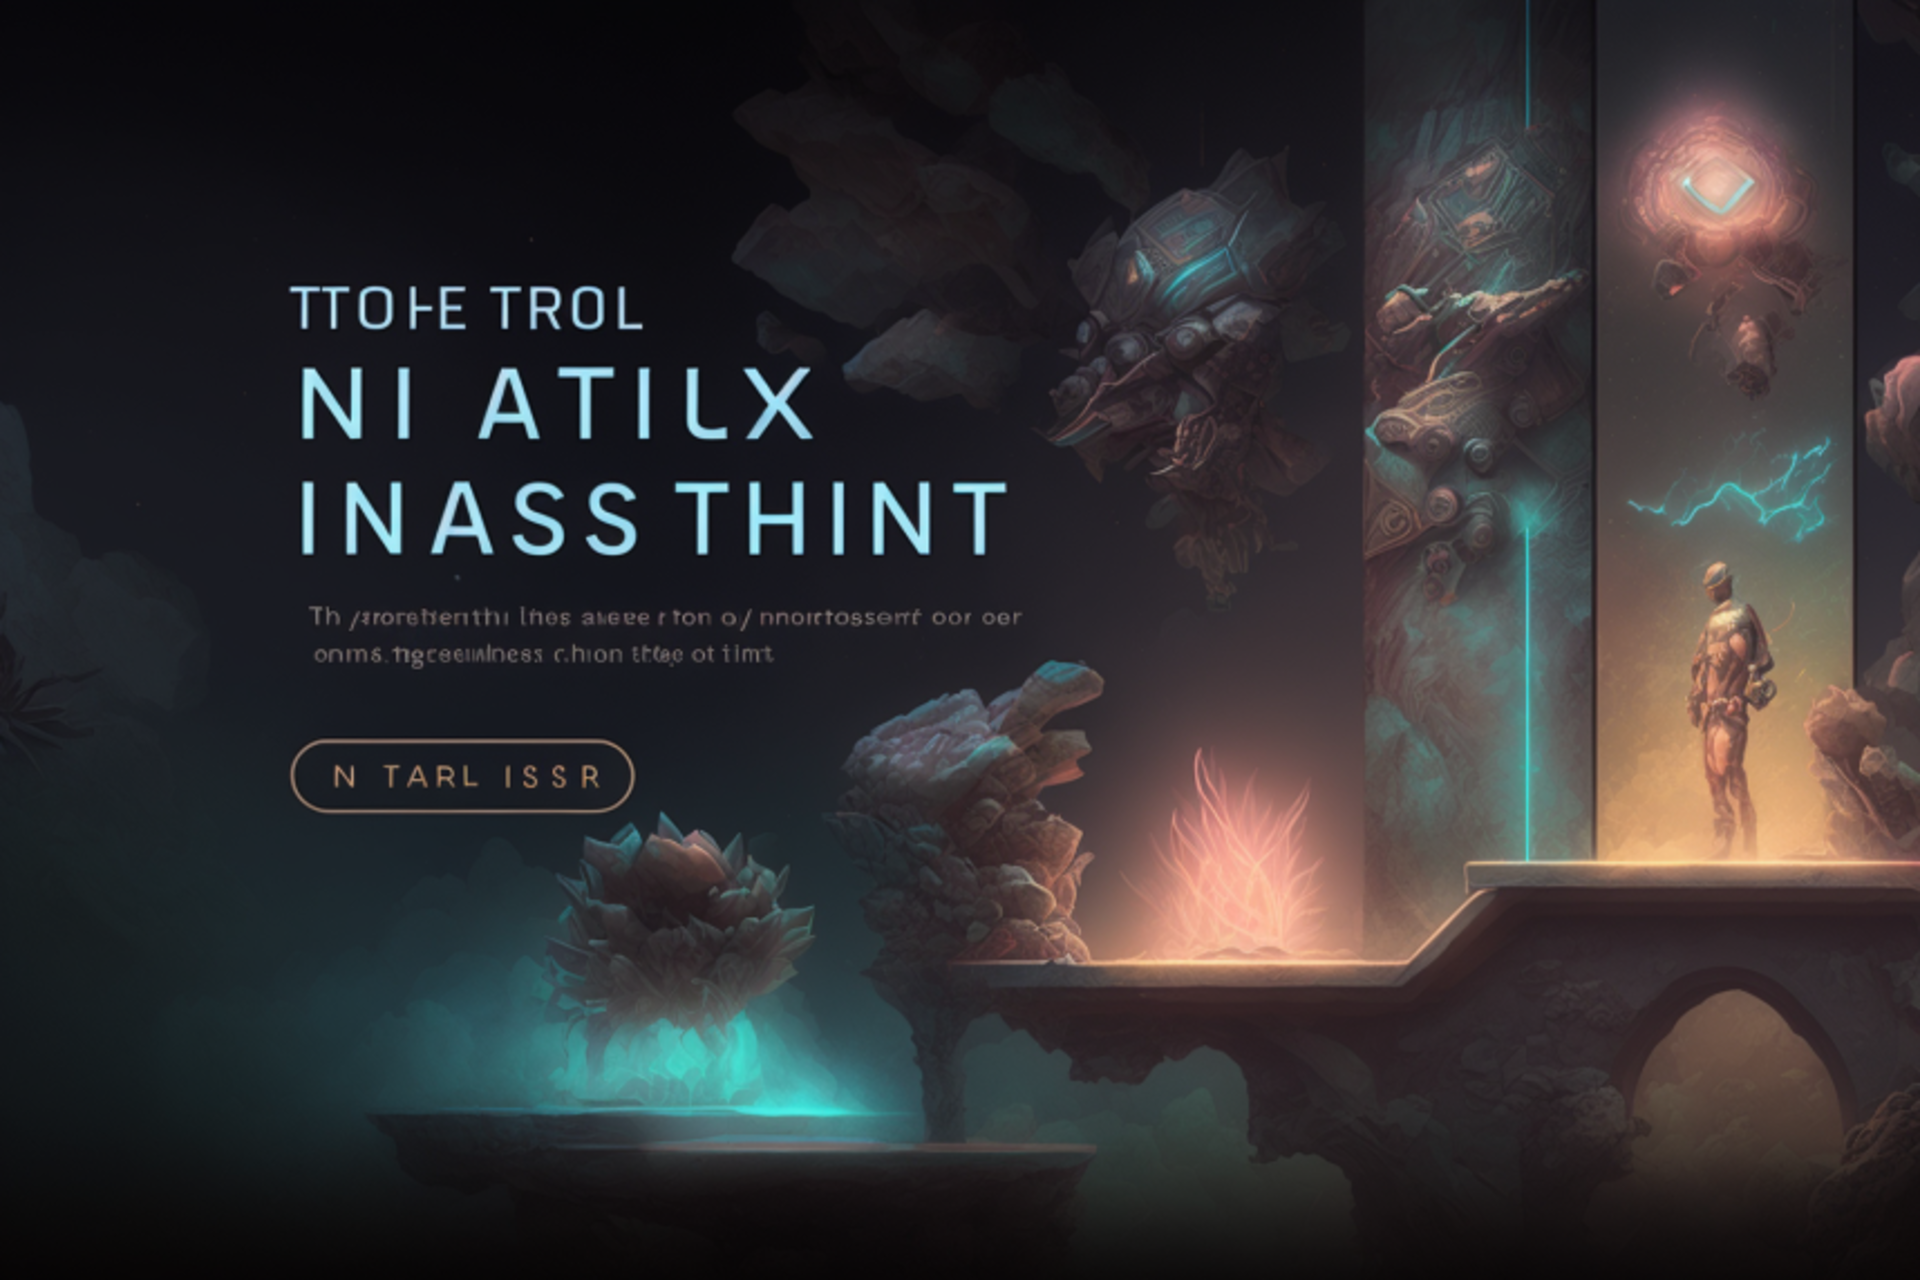
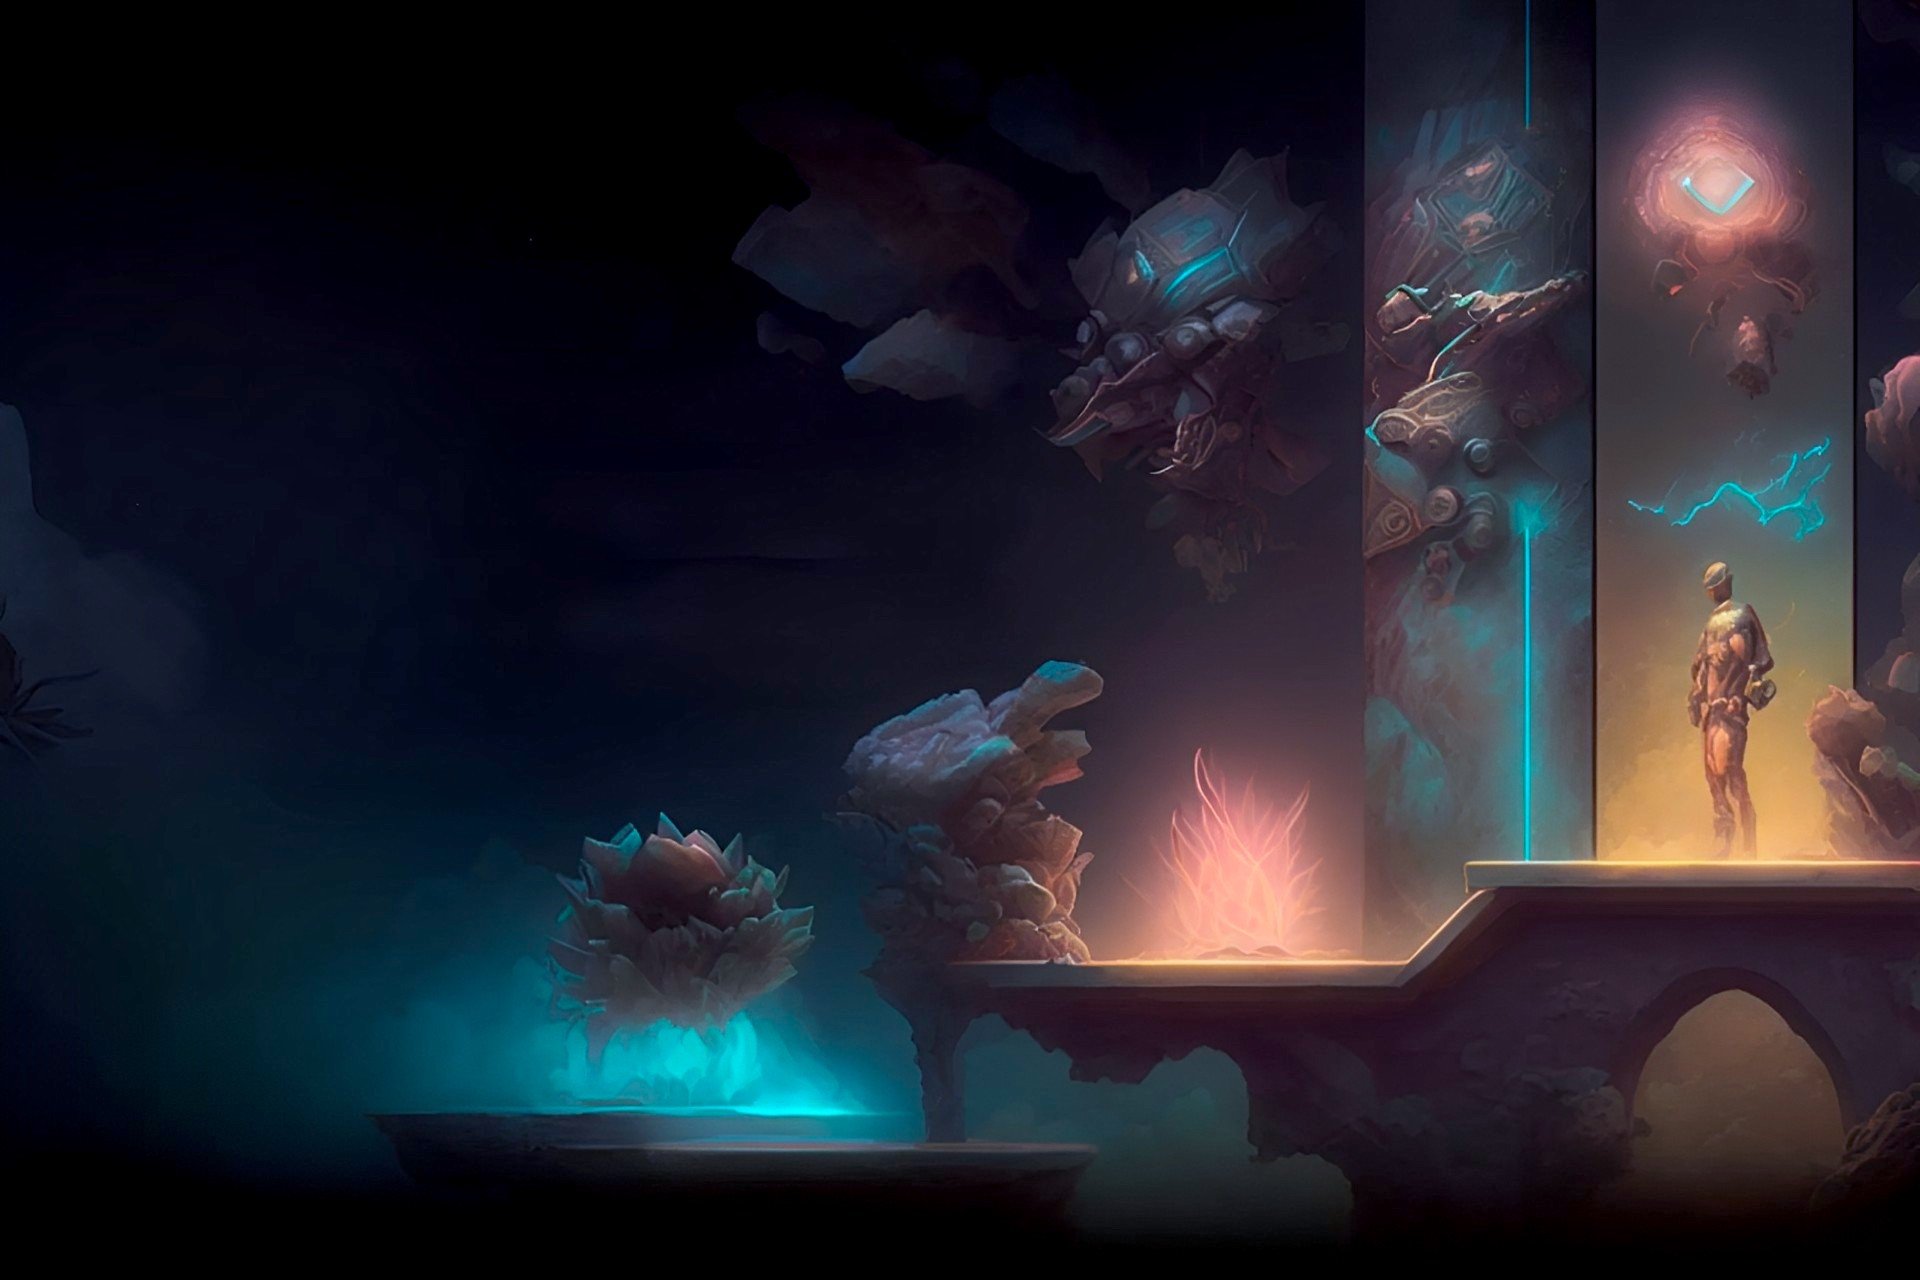
feat: improved hero, fixed footer

diff --git a/src/constants/footer.ts b/src/constants/footer.ts
@@ -4,7 +4,7 @@ export const footerLinks: IFooter = {
   row1: {
     link1: {
       text: "My NFTs",
-      link: "/nfts",
+      link: "/my-nfts",
     },
     link2: {
       text: "Create Contract",
@@ -12,7 +12,7 @@ export const footerLinks: IFooter = {
     },
     link3: {
       text: "Upload NFT",
-      link: "/create-nft",
+      link: "/upload-nft",
     },
   },
   row2: {
@@ -27,16 +27,6 @@ export const footerLinks: IFooter = {
     link3: {
       text: "Transfer NFT",
       link: "/transfer-nft",
-    },
-  },
-  row3: {
-    link1: {
-      text: "About us",
-      link: "/about-us",
-    },
-    link2: {
-      text: "FAQ",
-      link: "/faq",
     },
   },
 };

diff --git a/src/components/molecules/Hero/styles.ts b/src/components/molecules/Hero/styles.ts
@@ -1,0 +1,35 @@
+import styled from "styled-components";
+
+export const Container = styled.div`
+  width: 100%;
+  height: 100svh;
+  margin-bottom: 4%;
+  background: url("background.webp") no-repeat center;
+`;
+
+export const TextWrapper = styled.div`
+  display: flex;
+  flex-direction: column;
+  align-items: flex-start;
+  text-align: center;
+  gap: 30px;
+
+  width: 60%;
+  padding-top: 15%;
+`;
+
+export const Title = styled.h1`
+  font-size: 3rem;
+  font-weight: bold;
+  color: white;
+
+  width: 100%;
+`;
+
+export const Subtitle = styled.h3`
+  font-size: 2rem;
+  font-weight: bold;
+  color: white;
+
+  width: 100%;
+`;

diff --git a/src/components/organisms/HomePage/index.tsx b/src/components/organisms/HomePage/index.tsx
@@ -1,10 +1,11 @@
 import { Step } from "@molecules/Step";
-import { Hero, Container, AOSWrapper } from "@organisms/HomePage/HomePage.styles";
+import { Container, AOSWrapper } from "@organisms/HomePage/HomePage.styles";
 import React, { useEffect } from "react";
 import AOS from "aos";
 import "aos/dist/aos.css";
 import { ContentWrapper } from "./HomePage.styles";
 import { steps } from "@constants/steps";
+import { Hero } from "@molecules/Hero";
 
 const HomePage = () => {
   useEffect(() => {

diff --git a/src/components/molecules/Hero/index.tsx b/src/components/molecules/Hero/index.tsx
@@ -1,0 +1,16 @@
+import { Container, Subtitle, TextWrapper, Title } from "@molecules/Hero/styles";
+import React from "react";
+
+const Hero = () => {
+  return (
+    <Container>
+      <TextWrapper>
+        <Title>Just a preview of the official title</Title>
+        <Subtitle>This is first the subtitle subtitle subtitle</Subtitle>
+        <Subtitle>The second subtitle </Subtitle>
+      </TextWrapper>
+    </Container>
+  );
+};
+
+export { Hero };
